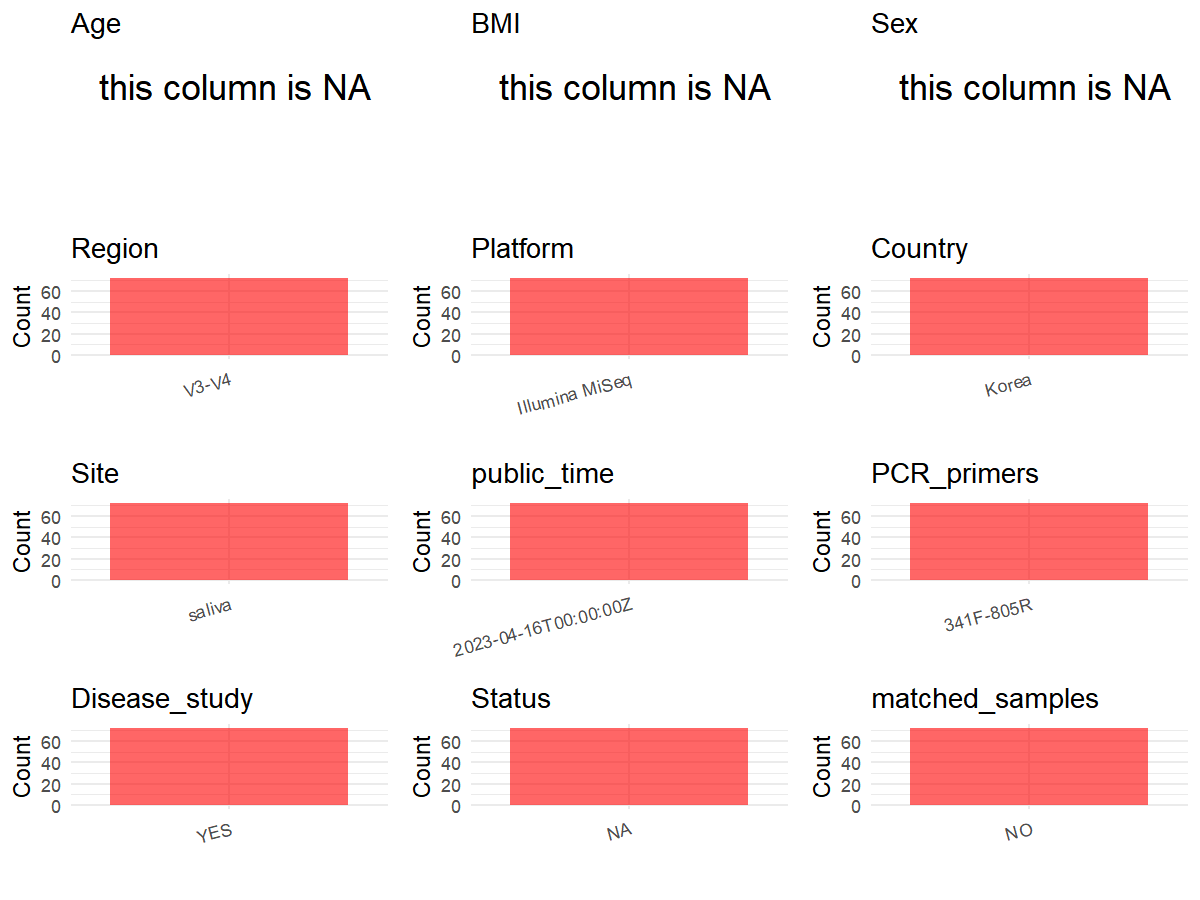
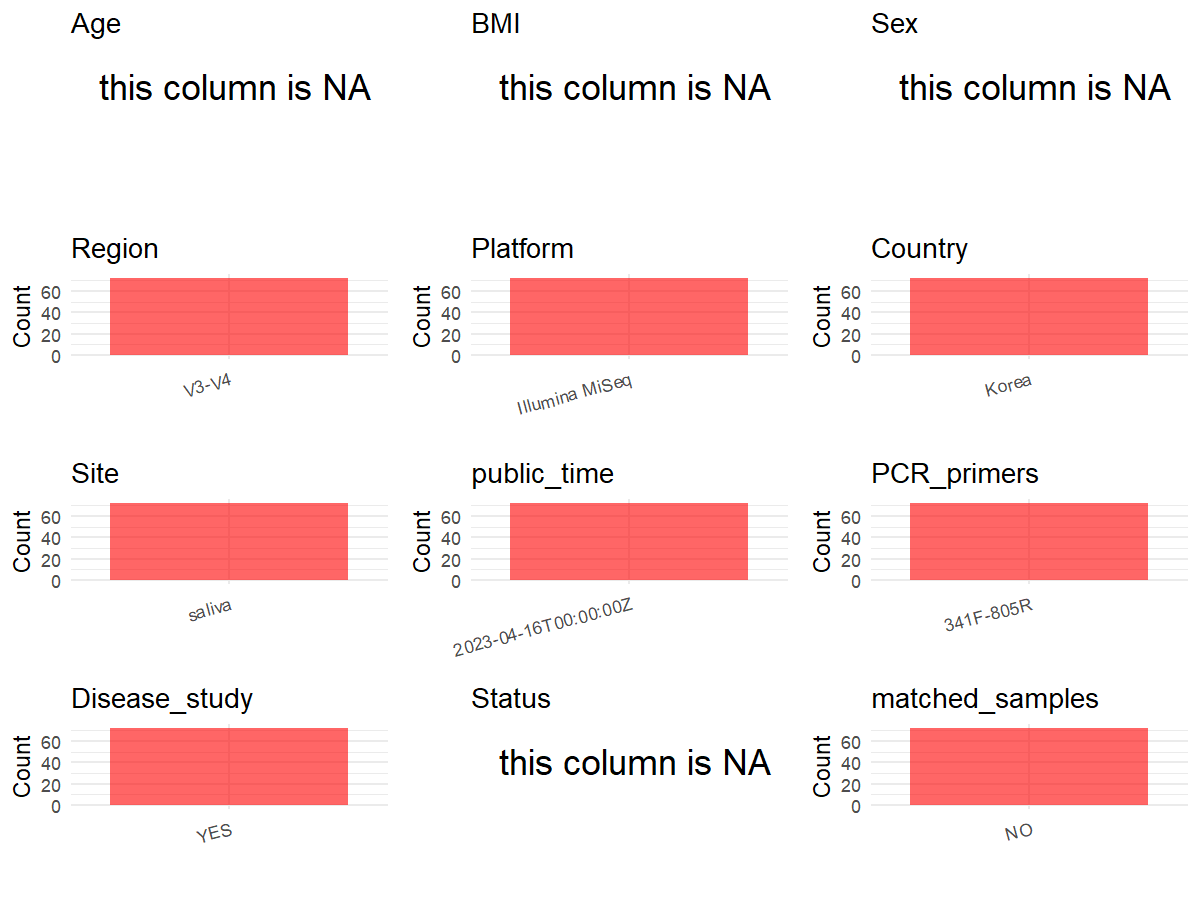
add metadata

Changed region(s): [[0.3392, 0.8089, 0.6475, 0.9333]]

diff --git a/data/projects/PRJEB61123/metadata_curation.md b/data/projects/PRJEB61123/metadata_curation.md
@@ -138,6 +138,7 @@ metadata <- data.frame(
   Country = "Korea",
   Site = "saliva",
   public_time = initial_meta$ReleaseDate,
+  Status = NA,
   stringsAsFactors = FALSE
 )
 ```
@@ -153,7 +154,7 @@ metadata$PCR_primers <- "341F-805R"
 metadata$title <- "Characteristics of the Salivary Microbiota in Periodontal Diseases and Potential Roles of Individual Bacterial Species To Predict the Severity of Periodontal Disease"
 metadata$Disease_study <- "YES"
 # Assign disease status based on sample_name patterns
-metadata$Status<-"NA"
+#metadata$Status<-"NA"
 
 keep_subjects <- unique(subset(metadata, Site == "saliva")$sample_name)
 metadata <- subset(metadata, sample_name %in% keep_subjects)
